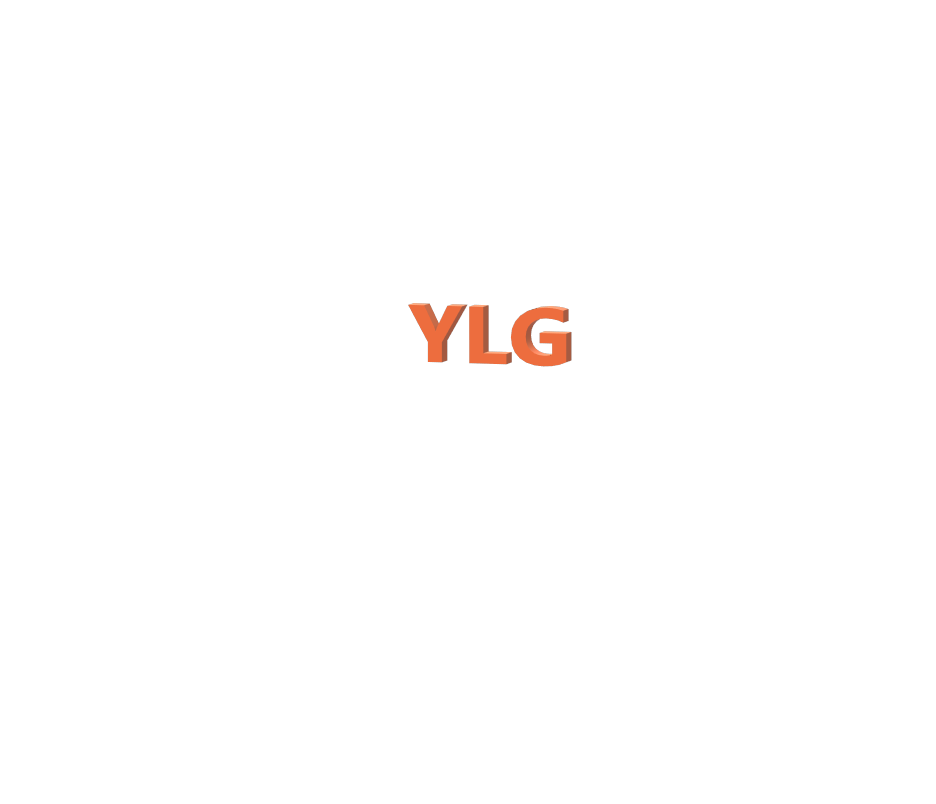
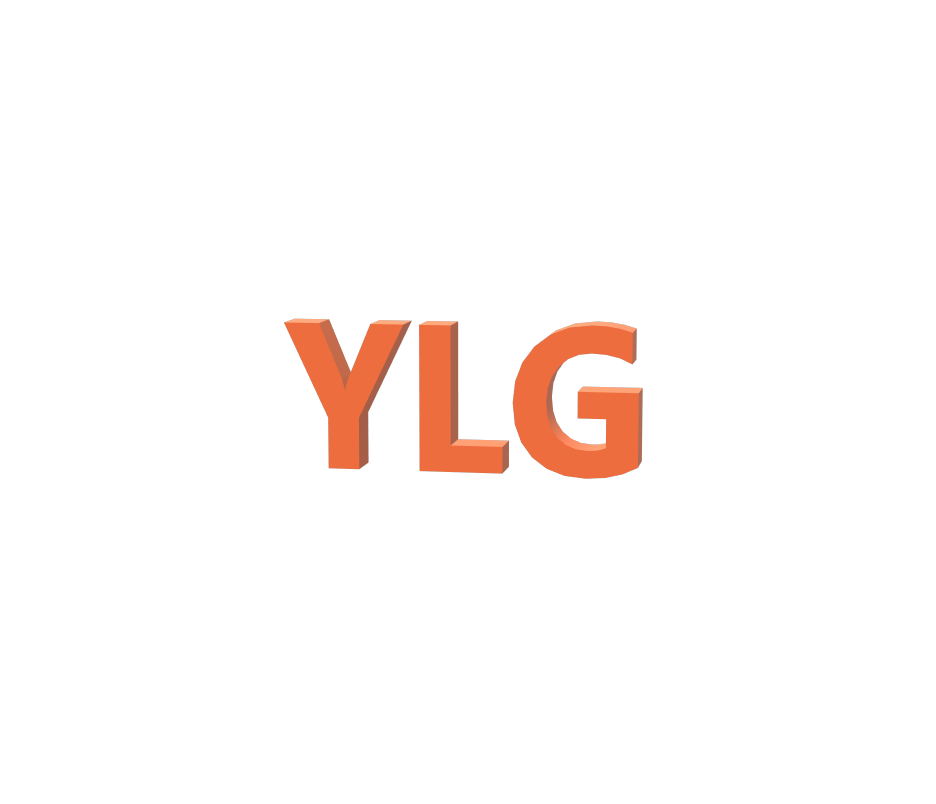
.

Changed region(s): [[0.3098, 0.3731, 0.7126, 0.6219]]

diff --git a/index.html b/index.html
@@ -13,10 +13,11 @@
             <li><a href="pictures.html">stream</a></li>
             <li><a href="about.html">about</a></li>
             <li><a href="contact.html">contact</a></li>
-            <input type="text" placeholder="Search">
-            <a href="index.html"><img class="logo" src="YLG.png" height="43px" width="43px"></a>
-            
+            <input type="text" placeholder="Search">            
             </ul>
+        </div>
+        <div class="logo">
+          <a href="index.html"><img src="YLG.png" height="140" width="200"></a> 
         </div>
       <div class="header">
     <h1>homepage</h1>

diff --git a/contact.html b/contact.html
@@ -14,6 +14,9 @@
             <a href="index.html"><img class="logo" src="insta.png" height="43px" width="43px"></a>
             </ul>
         </div>
+        <div class="logo">
+            <a href="index.html"><img src="YLG.png" height="140" width="200"></a> 
+          </div>
       <div class="header">
     <h1>contact</h1>
       </div>

diff --git a/pictures.html b/pictures.html
@@ -14,6 +14,9 @@
             <a href="index.html"><img class="logo" src="insta.png" height="43px" width="43px"></a>
             </ul>
         </div>
+        <div class="logo">
+            <a href="index.html"><img src="YLG.png" height="140" width="200"></a> 
+          </div>
       <div class="header">
     <h1>stream</h1>
       </div>

diff --git a/about.html b/about.html
@@ -14,6 +14,9 @@
             <a href="index.html"><img class="logo" src="insta.png" height="43px" width="43px"></a>
             </ul>
         </div>
+        <div class="logo">
+            <a href="index.html"><img src="YLG.png" height="140" width="200"></a> 
+          </div>
       <div class="header">
     <h1>about</h1>
       </div>

diff --git a/style.css b/style.css
@@ -99,9 +99,7 @@ input {
       border-radius: 15px;
   }
     
-  .logo {
-    float: left;
-    position: relative;
-    margin-left: 566px;
+  .logo {    
+    margin-top: 0;
 }
    
